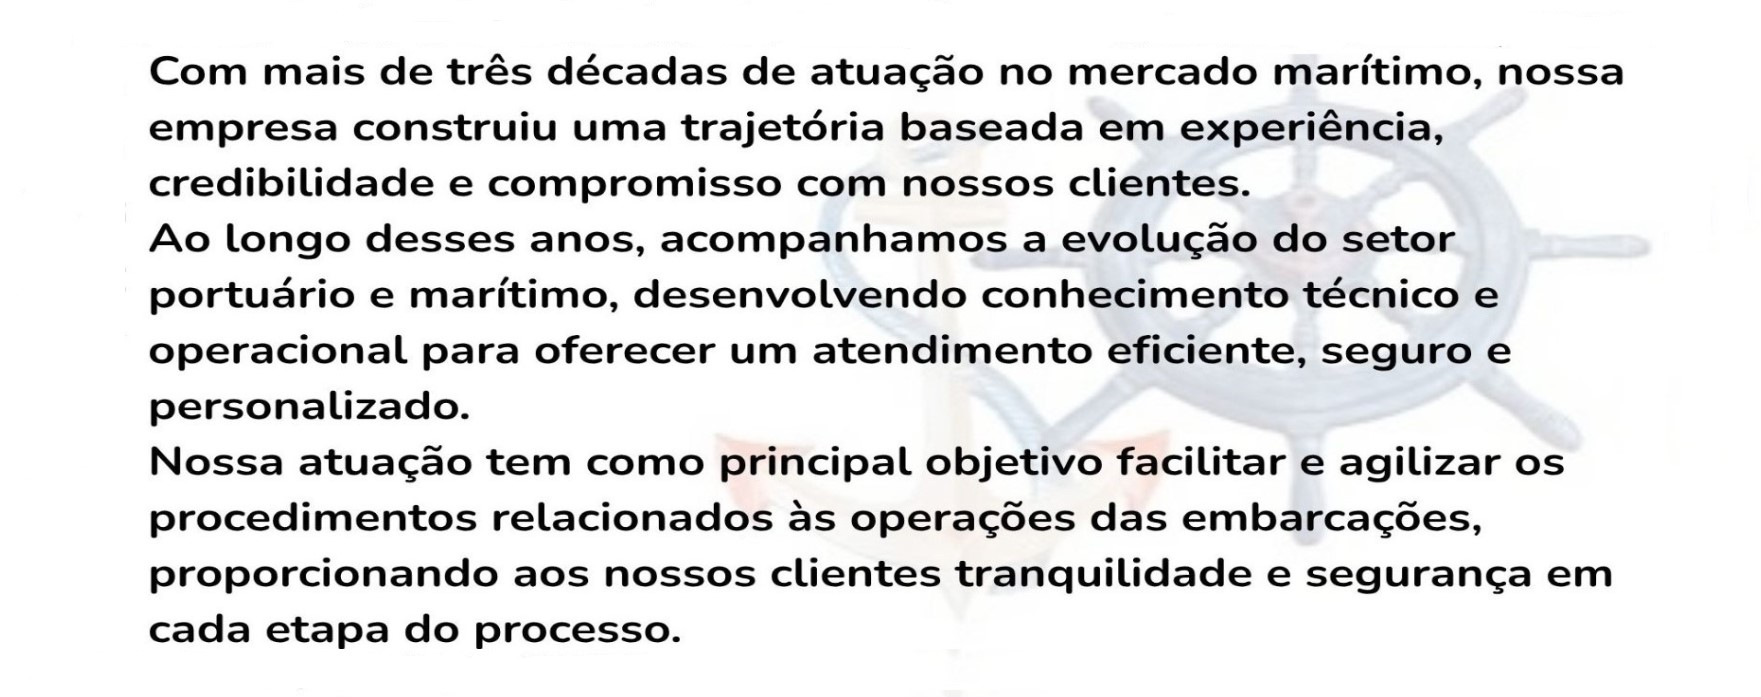
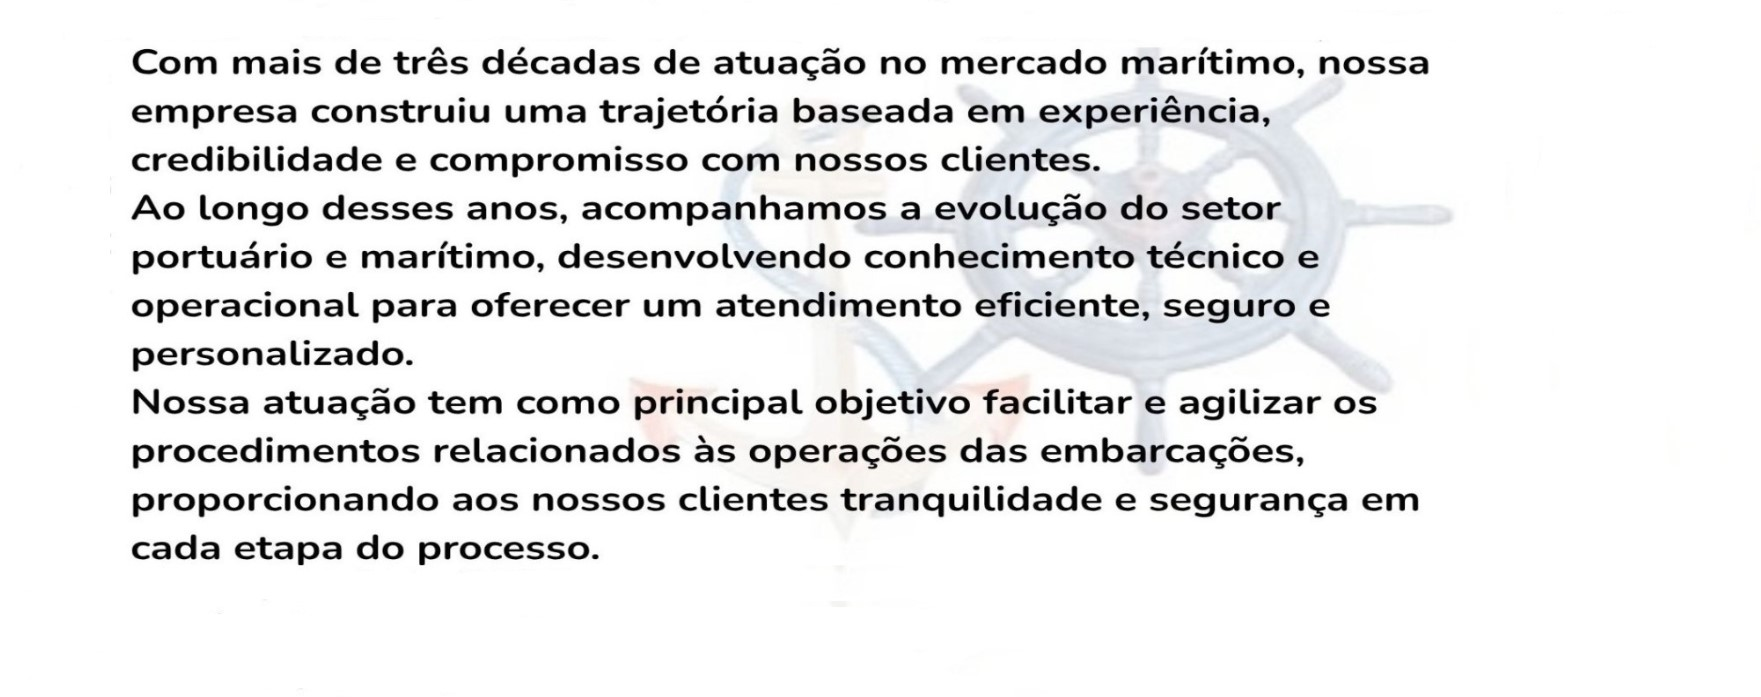
Atualização do projeto

Changed region(s): [[0.0625, 0.0603, 0.937, 0.8436], [0.0625, 0.8737, 0.406, 0.934]]

diff --git a/styless.css b/styless.css
@@ -1,3 +1,8 @@
+.imagem4 {
+    position: relative;
+    top: -38px;
+}
+
 /* =========================
    CONFIGURAÇÃO GERAL
 ========================= */
@@ -37,10 +42,16 @@ body > img {
     padding: 60px 8%;
 
     background: white;
+
+    /* sobe aproximadamente 3 cm */
+    position: relative;
+    top: -114px;
 }
 
 
-/* TÍTULO */
+/* =========================
+   TÍTULO
+========================= */
 
 .contatos h2 {
     margin: 0 0 40px 0;
@@ -52,7 +63,9 @@ body > img {
 }
 
 
-/* ÁREA DOS CONTATOS */
+/* =========================
+   ÁREA DOS CONTATOS
+========================= */
 
 .contato {
     display: flex;
@@ -62,7 +75,9 @@ body > img {
 }
 
 
-/* CADA LINHA */
+/* =========================
+   CADA LINHA
+========================= */
 
 .contato p {
     margin: 0;
@@ -74,7 +89,9 @@ body > img {
 }
 
 
-/* LINKS */
+/* =========================
+   LINKS
+========================= */
 
 .contato a {
     color: #000;
@@ -83,7 +100,9 @@ body > img {
 }
 
 
-/* EFEITO AO PASSAR O MOUSE */
+/* =========================
+   EFEITO AO PASSAR O MOUSE
+========================= */
 
 .contato a:hover {
     text-decoration: underline;

diff --git a/index.html b/index.html
@@ -29,7 +29,7 @@
     <br>
     <br>
     <br>
-    <img src="4.jpg" alt="Imagem 4">
+    <img src="4.jpg" class="imagem4">
     <br>
 
 
